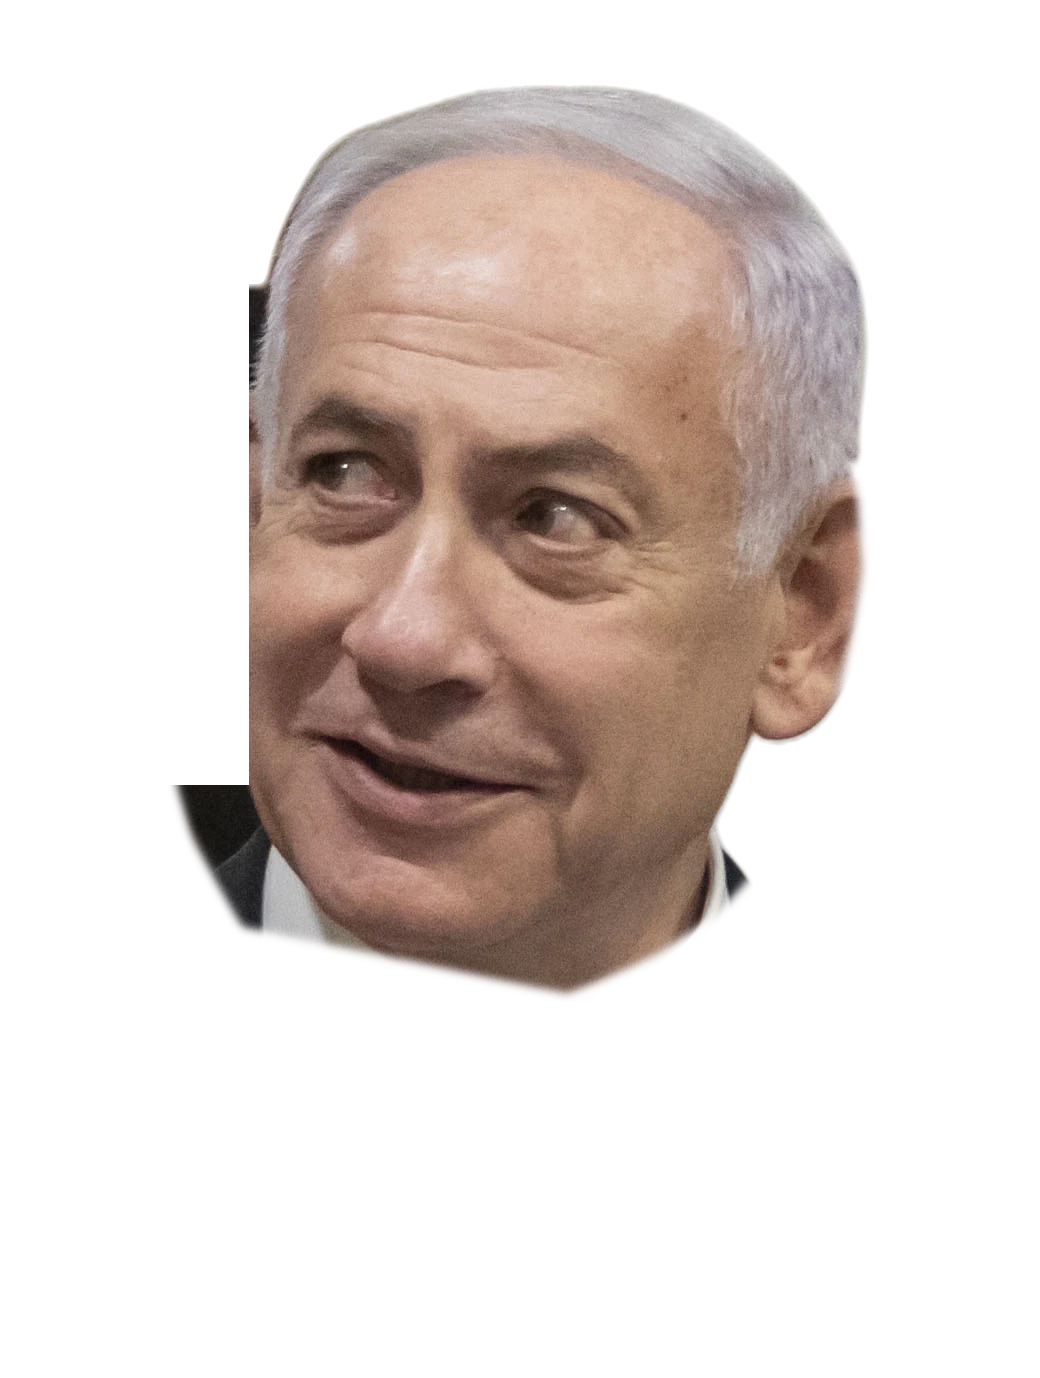
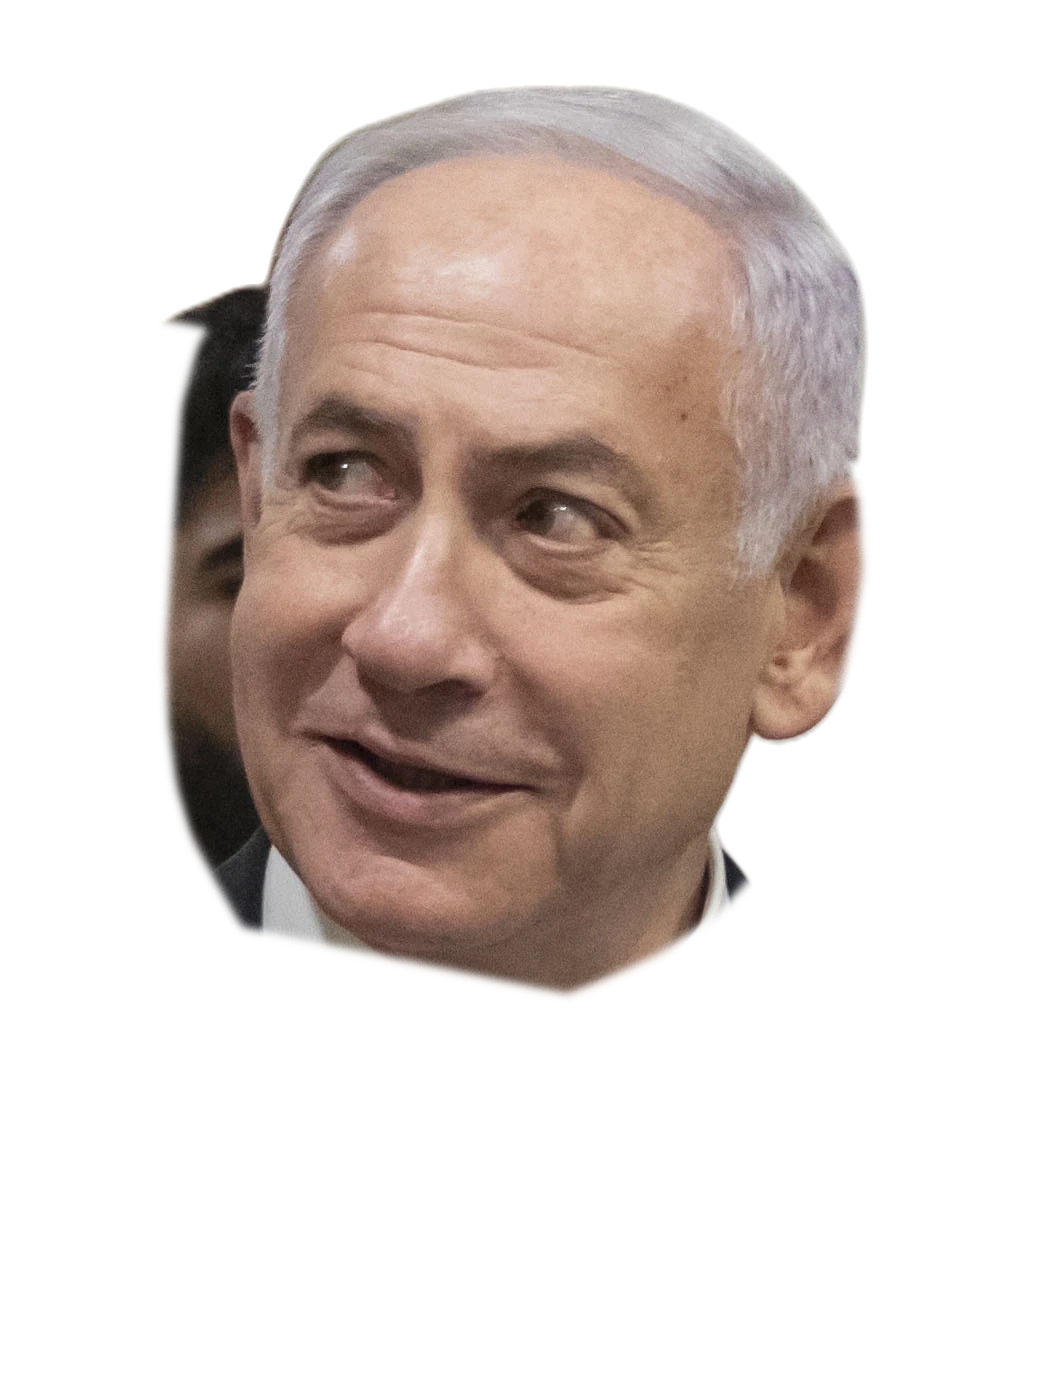
Anyone Home?: punch lines pop from the open head; the cap rests beside it
Each quote now carries a short verbatim punch that pops out of the skull
in a comic bubble. The lid lands beside the head on screen. ?knock=N
auto-knocks for previews.

Changed region(s): [[0.1538, 0.1872, 0.2462, 0.5929]]

diff --git a/src/data.ts b/src/data.ts
@@ -18,9 +18,10 @@ export type Medium =
   | { kind: 'tv'; text: string; show: string; context?: string }
   // repeat: said that many times; again: how the repeats are shown (they varied)
   | { kind: 'transcript'; text: string; source: string; context?: string; repeat?: number; again?: string }
-  | { kind: 'stat'; value: number; of: number; unit: string; source: string };
+  | { punch: 'Germs are not a real thing.', kind: 'stat'; value: number; of: number; unit: string; source: string };
 
-export type Quote = Medium & { audio?: string };
+// punch: the short, verbatim bit that pops out of the head
+export type Quote = Medium & { audio?: string; punch?: string };
 
 export type Inside = 'bucket' | 'cat' | 'bottle' | 'germs' | 'bomb';
 
@@ -78,29 +79,29 @@ export const people: Person[] = [
     },
     scan: [NO_BRAIN, ['Peanuts', 'One bucket, the best bucket'], ['Echo', 'Tremendous']],
     quotes: [
-      { kind: 'transcript', text: 'I know words. I have the best words.', source: 'Campaign rally, Hilton Head, SC · Dec 30, 2015' },
-      {
+      { punch: 'I have the best words.', kind: 'transcript', text: 'I know words. I have the best words.', source: 'Campaign rally, Hilton Head, SC · Dec 30, 2015' },
+      { punch: 'They’re eating the cats.',
         kind: 'transcript',
         text: 'In Springfield, they’re eating the dogs. The people that came in. They’re eating the cats. They’re eating the pets of the people that live there.',
         source: 'Presidential debate, Philadelphia · Sep 10, 2024',
       },
-      { kind: 'post', text: 'Despite the constant negative press covfefe', date: 'May 31, 2017' },
-      { kind: 'transcript', text: 'I have concepts of a plan.', source: 'Presidential debate, Philadelphia · Sep 10, 2024', context: 'Asked for his health care plan' },
-      {
+      { punch: 'covfefe', kind: 'post', text: 'Despite the constant negative press covfefe', date: 'May 31, 2017' },
+      { punch: 'I have concepts of a plan.', kind: 'transcript', text: 'I have concepts of a plan.', source: 'Presidential debate, Philadelphia · Sep 10, 2024', context: 'Asked for his health care plan' },
+      { punch: 'by injection inside or almost a cleaning',
         kind: 'transcript',
         text: 'And then I see the disinfectant, where it knocks it out in a minute, one minute. And is there a way we can do something like that by injection inside or almost a cleaning…',
         source: 'White House briefing · Apr 23, 2020',
       },
-      { kind: 'transcript', text: '…your house just went down 75 percent in value. And they say the noise causes cancer.', source: 'NRCC dinner, Washington · Apr 2, 2019', context: 'On windmills' },
-      { kind: 'transcript', text: 'The late, great Hannibal Lecter. He’s a wonderful man.', source: 'Rally, Wildwood, NJ · May 11, 2024' },
-      { kind: 'transcript', text: 'I’ll take electrocution every single time. I’m not getting near the shark.', source: 'Rally, Las Vegas · Jun 9, 2024', context: 'Sinking boat, battery, shark' },
-      { kind: 'transcript', text: 'You know, I do the weave. You know what the weave is?', source: 'Rally, Johnstown, PA · Aug 30, 2024' },
-      {
+      { punch: 'the noise causes cancer.', kind: 'transcript', text: '…your house just went down 75 percent in value. And they say the noise causes cancer.', source: 'NRCC dinner, Washington · Apr 2, 2019', context: 'On windmills' },
+      { punch: 'The late, great Hannibal Lecter.', kind: 'transcript', text: 'The late, great Hannibal Lecter. He’s a wonderful man.', source: 'Rally, Wildwood, NJ · May 11, 2024' },
+      { punch: 'I’ll take electrocution every single time.', kind: 'transcript', text: 'I’ll take electrocution every single time. I’m not getting near the shark.', source: 'Rally, Las Vegas · Jun 9, 2024', context: 'Sinking boat, battery, shark' },
+      { punch: 'I do the weave.', kind: 'transcript', text: 'You know, I do the weave. You know what the weave is?', source: 'Rally, Johnstown, PA · Aug 30, 2024' },
+      { punch: 'a very stable genius at that!',
         kind: 'post',
         text: '….to President of the United States (on my first try). I think that would qualify as not smart, but genius….and a very stable genius at that!',
         date: 'Jan 6, 2018',
       },
-      { kind: 'tv', text: 'Person, woman, man, camera, TV.', show: 'Fox News interview · Jul 2020', context: 'On his cognitive test' },
+      { punch: 'Person, woman, man, camera, TV.', kind: 'tv', text: 'Person, woman, man, camera, TV.', show: 'Fox News interview · Jul 2020', context: 'On his cognitive test' },
     ],
   },
   {
@@ -118,13 +119,13 @@ export const people: Person[] = [
     },
     scan: [NO_BRAIN, ['Cats', '1, using it as a litter box'], ['Poops so far', '{poops}']],
     quotes: [
-      {
+      { punch: 'childless cat ladies',
         kind: 'tv',
         text: '…a bunch of childless cat ladies who are miserable at their own lives and the choices that they’ve made…',
         show: 'Tucker Carlson Tonight · Jul 29, 2021',
       },
-      { kind: 'tv', text: 'I’m a “Never Trump” guy. I never liked him.', show: 'Charlie Rose · Oct 2016' },
-      {
+      { punch: 'I never liked him.', kind: 'tv', text: 'I’m a “Never Trump” guy. I never liked him.', show: 'Charlie Rose · Oct 2016' },
+      { punch: 'he’s America’s Hitler.',
         kind: 'chat',
         app: 'Facebook message',
         group: 'To his law school roommate',
@@ -136,15 +137,15 @@ export const people: Person[] = [
         ],
         source: 'Private message · Feb 2016 · made public in 2022',
       },
-      {
+      { punch: 'If I have to create stories…',
         kind: 'tv',
         text: 'If I have to create stories so that the American media actually pays attention to the suffering of the American people, then that’s what I’m going to do.',
         show: 'CNN, State of the Union · Sep 15, 2024',
         context: 'On the pet-eating story',
       },
-      { kind: 'transcript', text: 'The rules were that you guys weren’t going to fact-check.', source: 'Vice presidential debate, CBS · Oct 1, 2024' },
-      { kind: 'transcript', text: 'Have you said thank you once…', source: 'Oval Office, to Volodymyr Zelensky · Feb 28, 2025' },
-      {
+      { punch: 'you guys weren’t going to fact-check.', kind: 'transcript', text: 'The rules were that you guys weren’t going to fact-check.', source: 'Vice presidential debate, CBS · Oct 1, 2024' },
+      { punch: 'Have you said thank you once…', kind: 'transcript', text: 'Have you said thank you once…', source: 'Oval Office, to Volodymyr Zelensky · Feb 28, 2025' },
+      { punch: 'I just hate bailing Europe out again.',
         kind: 'chat',
         app: 'Signal',
         group: 'Houthi PC small group',
@@ -172,18 +173,18 @@ export const people: Person[] = [
     },
     scan: [NO_BRAIN, ['Jobs held', '4 at once'], ['Water', '1 bottle, for emergencies']],
     quotes: [
-      {
+      { punch: 'Let’s dispel once and for all with this fiction…',
         kind: 'transcript',
         text: 'Let’s dispel once and for all with this fiction that Barack Obama doesn’t know what he’s doing.',
         again: '…this fiction that Barack Obama doesn’t know what he’s doing…',
         source: 'Republican debate, Manchester, NH · Feb 6, 2016',
         repeat: 4,
       },
-      { kind: 'transcript', text: 'Then he asked for a full-length mirror. Maybe to make sure his pants weren’t wet.', source: 'Rally, Dallas · Feb 26, 2016', context: 'On Donald Trump' },
-      { kind: 'transcript', text: '…the guy with the worst spray tan in America is attacking me for putting on makeup.', source: 'Rally in Georgia · Feb 27, 2016' },
-      { kind: 'transcript', text: 'Have you seen his hands? … You know what they say about men with small hands? You can’t trust them.', source: 'Rally, Salem, VA · Feb 28, 2016' },
-      { kind: 'post', text: 'Donald Trump is a con artist — and he cannot be our nominee. #NeverTrump', date: 'Feb 26, 2016' },
-      {
+      { punch: 'Maybe to make sure his pants weren’t wet.', kind: 'transcript', text: 'Then he asked for a full-length mirror. Maybe to make sure his pants weren’t wet.', source: 'Rally, Dallas · Feb 26, 2016', context: 'On Donald Trump' },
+      { punch: 'the worst spray tan in America', kind: 'transcript', text: '…the guy with the worst spray tan in America is attacking me for putting on makeup.', source: 'Rally in Georgia · Feb 27, 2016' },
+      { punch: 'you know what they say about men with small hands?', kind: 'transcript', text: 'Have you seen his hands? … You know what they say about men with small hands? You can’t trust them.', source: 'Rally, Salem, VA · Feb 28, 2016' },
+      { punch: 'Donald Trump is a con artist', kind: 'post', text: 'Donald Trump is a con artist — and he cannot be our nominee. #NeverTrump', date: 'Feb 26, 2016' },
+      { punch: 'Selling watches in Manhattan.',
         kind: 'transcript',
         text: 'If he hadn’t inherited $200 million, you know where Donald Trump would be right now? Selling watches in Manhattan.',
         source: 'Republican debate, Houston · Feb 25, 2016',
@@ -205,9 +206,9 @@ export const people: Person[] = [
     },
     scan: [NO_BRAIN, ['Germs', 'Billions, unwashed since 2009'], ['Group chats', '1, plus a journalist']],
     quotes: [
-      { kind: 'tv', text: 'I don’t think I’ve washed my hands for 10 years. Really, I don’t really wash my hands…', show: 'Fox & Friends Weekend · Feb 10, 2019' },
+      { punch: 'I don’t think I’ve washed my hands for 10 years.', kind: 'tv', text: 'I don’t think I’ve washed my hands for 10 years. Really, I don’t really wash my hands…', show: 'Fox & Friends Weekend · Feb 10, 2019' },
       { kind: 'tv', text: 'Germs are not a real thing. I can’t see them, therefore they’re not real.', show: 'Fox & Friends Weekend · Feb 10, 2019' },
-      {
+      { punch: 'THIS IS WHEN THE FIRST BOMBS WILL DEFINITELY DROP',
         kind: 'chat',
         app: 'Signal',
         group: 'Houthi PC small group',
@@ -215,16 +216,16 @@ export const people: Person[] = [
         messages: [{ from: 'Pete Hegseth', text: '1415: Strike Drones on Target (THIS IS WHEN THE FIRST BOMBS WILL DEFINITELY DROP…)' }],
         source: 'Mar 2025 · published by The Atlantic',
       },
-      {
+      { punch: 'We are currently clean on OPSEC',
         kind: 'chat',
         app: 'Signal',
         group: 'Houthi PC small group',
         messages: [{ from: 'Pete Hegseth', text: 'MORE TO FOLLOW (per timeline)\nWe are currently clean on OPSEC\nGodspeed to our Warriors.' }],
         source: 'Mar 2025 · published by The Atlantic',
       },
-      { kind: 'transcript', text: 'Nobody was texting war plans, and that’s all I have to say about that.', source: 'To reporters, Honolulu · Mar 24, 2025' },
-      { kind: 'transcript', text: 'No more beardos.', source: 'Speech to generals, Quantico · Sep 30, 2025' },
-      {
+      { punch: 'Nobody was texting war plans', kind: 'transcript', text: 'Nobody was texting war plans, and that’s all I have to say about that.', source: 'To reporters, Honolulu · Mar 24, 2025' },
+      { punch: 'No more beardos.', kind: 'transcript', text: 'No more beardos.', source: 'Speech to generals, Quantico · Sep 30, 2025' },
+      { punch: 'fat generals and admirals',
         kind: 'transcript',
         text: '…it’s completely unacceptable to see fat generals and admirals in the halls of the Pentagon…',
         source: 'Speech to generals, Quantico · Sep 30, 2025',
@@ -246,25 +247,25 @@ export const people: Person[] = [
     },
     scan: [NO_BRAIN, ['Occupant', 'The late Supreme Leader, laughing'], ['Bombs', '1, cartoon, with a red line']],
     quotes: [
-      { kind: 'transcript', text: 'This is a bomb; this is a fuse.', source: 'UN General Assembly, holding a cartoon bomb · Sep 27, 2012' },
-      { kind: 'transcript', text: 'A red line should be drawn right here.', source: 'Same speech, drawing on it with a marker · Sep 27, 2012' },
-      {
+      { punch: 'This is a bomb; this is a fuse.', kind: 'transcript', text: 'This is a bomb; this is a fuse.', source: 'UN General Assembly, holding a cartoon bomb · Sep 27, 2012' },
+      { punch: 'A red line should be drawn right here.', kind: 'transcript', text: 'A red line should be drawn right here.', source: 'Same speech, drawing on it with a marker · Sep 27, 2012' },
+      { punch: 'by next spring, at most by next summer',
         kind: 'transcript',
         text: 'And by next spring, at most by next summer, at current enrichment rates, they will have finished the medium enrichment and move on to the final stage.',
         source: 'Same speech · Sep 27, 2012',
       },
-      {
+      { punch: 'I guarantee you',
         kind: 'transcript',
         text: '…if you take out Saddam’s regime, I guarantee you that it will have enormous positive reverberations on the region.',
         source: 'US House hearing · Sep 12, 2002',
       },
-      { kind: 'transcript', text: 'There will be nothing, because there is nothing.', source: 'Likud faction meeting · Jan 2, 2017', context: 'On the corruption investigations' },
-      {
+      { punch: 'There will be nothing, because there is nothing.', kind: 'transcript', text: 'There will be nothing, because there is nothing.', source: 'Likud faction meeting · Jan 2, 2017', context: 'On the corruption investigations' },
+      { punch: 'Arab voters are moving in droves',
         kind: 'tv',
         text: 'The right-wing government is in danger. Arab voters are moving in droves to the polling stations.',
         show: 'Election-day video · Mar 17, 2015',
       },
-      { kind: 'stat', value: 53, of: 61, unit: 'seats', source: 'Knesset election · Oct 27, 2026' },
+      { punch: '53 seats. Needed 61.', kind: 'stat', value: 53, of: 61, unit: 'seats', source: 'Knesset election · Oct 27, 2026' },
     ],
   },
 ];

diff --git a/src/scripts/site.ts b/src/scripts/site.ts
@@ -200,6 +200,11 @@ for (const chapter of document.querySelectorAll<HTMLElement>('[data-person]')) {
       text = `“${t('.card__text, .tv__quote').replace(/^[A-Z]+:\s*/, '').replace(/\s*\((again|yes, again)\)$/, '')}”`;
       src = t('header span:last-child') || t('.tv__show') || t('footer');
     }
+    // the short punch, not the paragraph
+    if (card.dataset.punch) text = card.dataset.kind === 'chat' || card.dataset.kind === 'stat' ? card.dataset.punch : `\u201c${card.dataset.punch}\u201d`;
+    if (card.classList.contains('card--scan')) text = 'Brain: not detected.';
+    if (card.classList.contains('card--scan')) src = 'Head scan';
+    capBox.classList.toggle('empty', card.classList.contains('card--listing'));
     capBox.classList.remove('swap');
     void capBox.offsetWidth;
     capBox.classList.add('swap');
@@ -579,10 +584,17 @@ for (const chapter of document.querySelectorAll<HTMLElement>('[data-person]')) {
     rings(px, py, true);
     if (opening) {
       // fling the lid somewhere new: left or right, spinning, up and out
+      // the cap lands beside the head, on screen, so you can see it
       const side = Math.random() < 0.5 ? -1 : 1;
-      stage.style.setProperty('--lid-x', `${side * (14 + Math.random() * 22)}%`);
-      stage.style.setProperty('--lid-y', `${-(16 + Math.random() * 14)}%`);
-      stage.style.setProperty('--lid-r', `${side * (18 + Math.random() * 40)}deg`);
+      const sw = stage.clientWidth;
+      const sr = stage.getBoundingClientRect();
+      const lidHalf = head.rx * sw;
+      const centre = sr.left + head.cx * sw;
+      const room = side > 0 ? innerWidth - 90 - centre : centre - 12;
+      const dx = Math.max(lidHalf * 0.6, Math.min(lidHalf * 2.05, room - lidHalf * 0.9));
+      stage.style.setProperty('--lid-x', `${side * dx}px`);
+      stage.style.setProperty('--lid-y', `${(head.cut - head.top) * stage.clientHeight * (0.55 + Math.random() * 0.3)}px`);
+      stage.style.setProperty('--lid-r', `${side * (28 + Math.random() * 30)}deg`);
       stage.classList.add('open');
       stage.classList.remove('scanning');
       motes();
@@ -730,3 +742,7 @@ addEventListener('keydown', (e) => {
   e.preventDefault();
   knockers.get(current)!();
 });
+
+// ?knock=3 knocks that many times on load (for previews and screenshots)
+const auto = Number(new URLSearchParams(location.search).get('knock') || 0);
+for (let i = 0; i < Math.min(auto, 20); i++) setTimeout(() => knockers.get(current)!(), 600 + i * 900);

diff --git a/src/styles/site.css b/src/styles/site.css
@@ -1588,3 +1588,65 @@ body { grid-template-rows: auto minmax(0, 1fr); }
   .dock__search { display: block; }
   .dock__search input { width: min(220px, 60vw); }
 }
+
+/* the punch pops out of the open head, like a comic bubble */
+.caption {
+  position: absolute;
+  left: calc(var(--cx) + var(--rx) * .35);
+  top: calc(var(--top) + 1%);
+  bottom: auto;
+  translate: 0 -40%;
+  z-index: 8;
+  width: max-content;
+  max-width: min(380px, 46cqw);
+  min-height: 0;
+  padding: 14px 18px 12px;
+  text-align: left;
+  background: #fff;
+  border: 2.5px solid var(--ink);
+  border-radius: 20px;
+  box-shadow: 6px 6px 0 var(--ink);
+  backdrop-filter: none;
+  -webkit-backdrop-filter: none;
+  rotate: -3deg;
+  transform-origin: 10% 100%;
+  opacity: 0;
+  scale: .4;
+  pointer-events: none;
+  transition: opacity .15s, scale .15s;
+}
+.caption::after {
+  content: "";
+  position: absolute;
+  left: 22px;
+  bottom: -16px;
+  width: 22px;
+  height: 22px;
+  background: #fff;
+  border-right: 2.5px solid var(--ink);
+  border-bottom: 2.5px solid var(--ink);
+  transform: skewY(30deg) rotate(30deg);
+  border-bottom-right-radius: 4px;
+}
+.open .caption:not(.empty) { opacity: 1; scale: 1; }
+.open .caption.swap:not(.empty) { animation: punch .55s cubic-bezier(.34, 1.8, .5, 1) .25s backwards; }
+@keyframes punch {
+  0% { scale: .2; opacity: 0; rotate: -14deg; }
+  60% { opacity: 1; }
+  100% { scale: 1; rotate: -3deg; }
+}
+.caption.swap .caption__text,
+.caption.swap .caption__src { animation: none; }
+.caption__text {
+  font-family: var(--sans);
+  font-weight: 800;
+  font-size: clamp(18px, 2.1vw, 30px);
+  line-height: 1.12;
+  letter-spacing: -.02em;
+  text-wrap: balance;
+}
+.caption__src { margin-top: 8px; font-size: 10px; }
+@media (max-width: 820px) {
+  .caption { left: 6%; max-width: 64vw; top: calc(var(--top) + 2%); }
+  .caption__text { font-size: 18px; }
+}

diff --git a/tools/cutout.py b/tools/cutout.py
@@ -30,7 +30,7 @@ HEADS = ROOT / "src" / "heads.json"
 IDS = sys.argv[1:] or ["trump", "vance", "rubio", "hegseth", "netanyahu"]
 # someone standing right behind the subject, joined to them in the mask: cleared
 # by hand (x0, y0, x1, y1 in percent)
-CLEAR = {"netanyahu": (0, 0, 24, 57)}
+CLEAR = {"netanyahu": (0, 0, 30, 69)}
 # grey hair on a pale wall: alpha matting makes a stair-stepped edge, so plain masks
 NO_MATTING = {"netanyahu"}
 
@@ -69,9 +69,6 @@ def main() -> None:
         keep = (labels == labels[int(pt(1)[1]), int(pt(1)[0])]).astype(np.uint8)
         keep = cv2.dilate(keep, cv2.getStructuringElement(cv2.MORPH_ELLIPSE, (e + 6, e + 6))).astype(bool)
         alpha = alpha * keep
-        if pid in CLEAR:
-            x0, y0, x1, y1 = CLEAR[pid]
-            alpha[int(y0 * h / 100):int(y1 * h / 100), int(x0 * w / 100):int(x1 * w / 100)] = 0
 
         ys, xs = np.mgrid[0:h, 0:w]
         rel = np.stack([xs - neck[0], ys - neck[1]], -1)
@@ -88,8 +85,16 @@ def main() -> None:
         cv2.fillConvexPoly(hull, cv2.convexHull(np.int32([pt(i) for i in oval])), 1)
         d = max(9, int(fw * 0.28)) | 1
         hull = cv2.dilate(hull, cv2.getStructuringElement(cv2.MORPH_ELLIPSE, (d, d))).astype(bool)
-        head = (((above_brow & (across < fw * 1.1)) | hull) & (below < 0)).astype(np.float32)
+        head = (((above_brow & (across < fw * 0.78)) | hull) & (below < 0)).astype(np.float32)
         # soften the cut so the seam doesn't show when the head is still
+        if pid in CLEAR:
+            # never inside the subject's own head
+            x0, y0, x1, y1 = CLEAR[pid]
+            box = np.zeros((h, w), bool)
+            box[int(y0 * h / 100):int(y1 * h / 100), int(x0 * w / 100):int(x1 * w / 100)] = True
+            g = max(25, int(fw * 0.18)) | 1
+            guard = cv2.dilate(((head > 0.5) | hull).astype(np.uint8), cv2.getStructuringElement(cv2.MORPH_ELLIPSE, (g, g))).astype(bool)
+            alpha[box & ~guard] = 0
         hard = head > 0.5
         head = cv2.GaussianBlur(head, (0, 0), fw * 0.008)
         head_a = alpha * head
